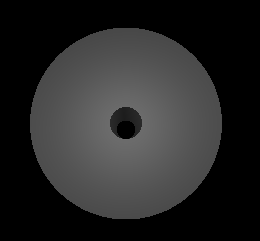
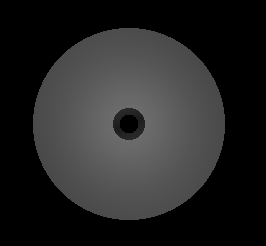
result

diff --git a/cylinder.py b/cylinder.py
@@ -246,6 +246,8 @@ def materiaIron1():
 
 #GLU画法
 def newDraw():
+    DENSITY = 128
+
     materiaIron1()
 
     # create quadric
@@ -255,23 +257,23 @@ def newDraw():
     # draw lower part of cylinder
     glRotatef(90, 1.0, 0.0, 0.0)
     #glTranslatef(0.0, 0.3, 0)
-    gluDisk(quadratic, 0.05, 0.3, 128, 128)
-    gluCylinder(quadratic, 0.3, 0.3, 0.1, 64, 64)
-    gluCylinder(quadratic, 0.05, 0.05, 0.1, 64, 64)
+    gluDisk(quadratic, 0.05, 0.3, DENSITY, DENSITY)
+    gluCylinder(quadratic, 0.3, 0.3, 0.1, DENSITY, DENSITY)
+    gluCylinder(quadratic, 0.05, 0.05, 0.1, DENSITY, DENSITY)
     glTranslatef(0.0, 0, 0.1)
-    gluDisk(quadratic, 0.05, 0.3, 128, 128)
+    gluDisk(quadratic, 0.05, 0.3, DENSITY, DENSITY)
 
     # draw middle part of cylinder
-    gluCylinder(quadratic, 0.1, 0.1, 0.9, 64, 64)
-    gluCylinder(quadratic, 0.05, 0.05, 0.9, 64, 64)
+    gluCylinder(quadratic, 0.1, 0.1, 0.9, DENSITY, DENSITY)
+    gluCylinder(quadratic, 0.05, 0.05, 0.9, DENSITY, DENSITY)
 
     # uper
     glTranslatef(0.0, 0, 0.9)
-    gluDisk(quadratic, 0.05, 0.3, 64, 64)
-    gluCylinder(quadratic, 0.3, 0.3, 0.1, 64, 64)
-    gluCylinder(quadratic, 0.05, 0.05, 0.1, 64, 64)
+    gluDisk(quadratic, 0.05, 0.3, DENSITY, DENSITY)
+    gluCylinder(quadratic, 0.3, 0.3, 0.1, DENSITY, DENSITY)
+    gluCylinder(quadratic, 0.05, 0.05, 0.1, DENSITY, DENSITY)
     glTranslatef(0.0, 0, 0.1)
-    gluDisk(quadratic, 0.05, 0.3, 64, 64)
+    gluDisk(quadratic, 0.05, 0.3, DENSITY, DENSITY)
     #glutSolidSphere(0.05, 50, 50)  # 绘制球
 
 
